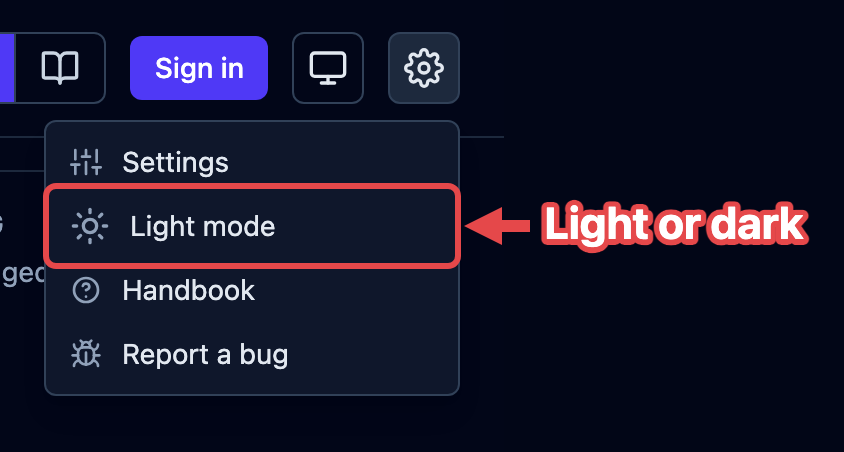
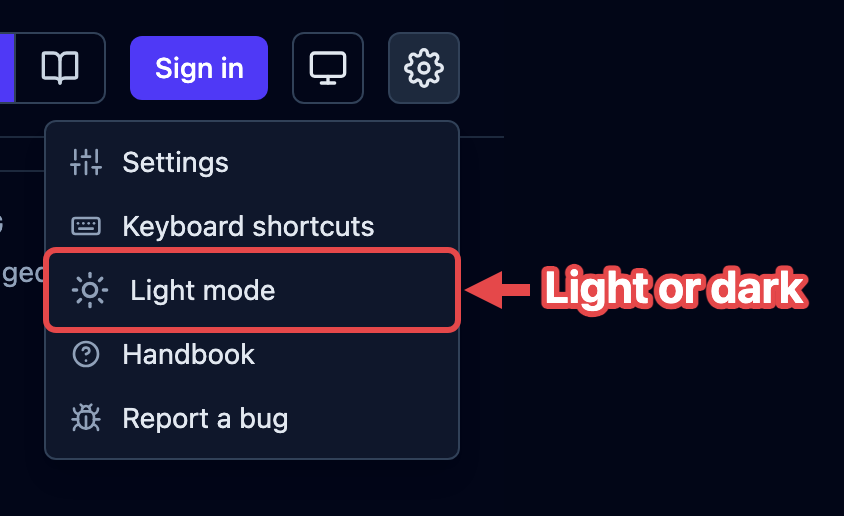
Docs: document the keyboard shortcuts
The console gained keyboard control in 1.1.0 and nothing in the handbook said
so. A new reference page lists all 26 commands with the keys they answer to,
grouped the way the app groups them, and covers the rules a reader meets first:
when the keyboard stands down, and which keys can never carry a command.

Rebinding goes on the Settings page, beside the tabs it sits between in the app,
since that is where every other Settings tab is already documented.

The tab strip gained a fourth entry and the gear menu a new row, so the four
captures showing either were re-shot. Three of them drifted under shotlist's
0.2% threshold and `--check` called them current, which is worth knowing the
next time a small control moves.

diff --git a/src/content/docs/reference/keyboard.md b/src/content/docs/reference/keyboard.md
@@ -1,0 +1,132 @@
+---
+title: Keyboard shortcuts
+description: Every keyboard command in the Dungeons and Dragons 5e combat console, the key it answers to, and when it works.
+keywords:
+  - DnD 5e combat tracker keyboard shortcuts
+  - OpenFray hotkeys
+  - initiative tracker keyboard controls
+  - 5e encounter shortcuts
+---
+
+Most of what you do in a fight has a key. You can step the turn, walk the tracker,
+damage whoever is selected, and open any of the panels without reaching for the mouse.
+This page lists every command and the key it starts with. You can change any of them,
+which is covered in
+[Settings & appearance](/docs/reference/settings/#keyboard).
+
+## See them in the app
+
+Press `Shift+/` to open the cheat sheet, or click the **gear** at the top right and
+choose **Keyboard shortcuts**. It lists every command with the key it currently answers
+to, grouped the way this page groups them. Press `Escape` to close it.
+
+![The Keyboard shortcuts cheat sheet, listing every command with its key, grouped into five sections.](../../../assets/screens/keyboard-help.png)
+
+The buttons themselves carry their key too. Hover one and its tooltip names the chord,
+so you can pick the shortcuts up as you go.
+
+## Turn and fight
+
+These run the fight itself. All but **Start combat** need a fight already under way.
+
+| Command         | Key       |
+| --------------- | --------- |
+| Next turn       | `N`       |
+| Previous turn   | `Shift+N` |
+| Start combat    | `B`       |
+| End the fight   | `Shift+B` |
+| Pause or resume | `P`       |
+
+**Next turn** does everything the button does, so recharge rolls and effects that end on
+a turn still happen.
+
+## Selection
+
+These move the highlight down and up the tracker, in the order you see it. Hold the key
+to keep moving. The selection wraps around at either end.
+
+| Command                      | Key |
+| ---------------------------- | --- |
+| Select next in the order     | `J` |
+| Select previous in the order | `K` |
+
+During a fight the order runs through the living in initiative order, with the dead
+grouped below. Before a fight it runs through players and allies first, then creatures.
+
+## The selected creature
+
+These act on the creature the console is showing: the one you clicked, or whoever's turn
+it is if you haven't clicked anyone.
+
+| Command                            | Key       |
+| ---------------------------------- | --------- |
+| Damage or heal the selected        | `D`       |
+| Apply an effect to the selected    | `E`       |
+| Concentrate                        | `Shift+C` |
+| Toggle reaction                    | `R`       |
+| Hide from players / Show           | `H`       |
+| Make ally / Make foe               | `F`       |
+| Remove the selected from the board | `Del`     |
+
+`D` puts the cursor straight in the hit points box, so you can type the damage and press
+`Enter`. See [Resolve an attack](/docs/guides/attacks/).
+
+## Add and open
+
+These open a panel or a picker on the fight screen.
+
+| Command           | Key       |
+| ----------------- | --------- |
+| Add creature      | `A`       |
+| Add PC            | `Shift+A` |
+| Quick add         | `Ctrl+A`  |
+| Cast spell        | `C`       |
+| Group save        | `G`       |
+| Short rest        | `Shift+S` |
+| Long rest         | `Shift+L` |
+| Open the game log | `L`       |
+
+**Short rest** and **Long rest** work only before a fight starts. **Cast spell** and
+**Group save** need at least one creature on the board.
+
+## Everywhere
+
+These work on any screen.
+
+| Command                                 | Key       |
+| --------------------------------------- | --------- |
+| Show the compendium / Back to the fight | `M`       |
+| Focus the dice bar                      | `/`       |
+| Settings                                | `,`       |
+| Keyboard shortcuts                      | `Shift+/` |
+
+## When a shortcut does nothing
+
+The keyboard steps out of the way whenever a key belongs to something else:
+
+- **While you're typing.** Every key is yours inside a text box, a number box, or a
+  dropdown. Click away, or press `Escape`, to get the shortcuts back.
+- **While a dialog or a menu is open.** The panel in front owns the keyboard until you
+  close it.
+- **When the command can't run.** A shortcut whose command isn't available right now
+  does nothing at all, with no warning. Pressing `B` mid-fight is an example: the fight
+  has already started.
+
+`Enter` is the exception that works the other way round. Inside a fight dialog, it runs
+that dialog's main button, so you can type a number and commit without reaching for
+**Apply** or **Save**.
+
+## Keys OpenFray won't take
+
+Four keys can never carry a command, because the browser and the screen reader already
+use them: `Enter`, `Space`, `Tab`, and `Escape`.
+
+Anything held with `Cmd` (or `Alt`) goes straight to your browser and the operating
+system, so those combinations are never bindable. The browser's own `Ctrl` chords are
+off limits too, among them `Ctrl+C`, `Ctrl+V`, `Ctrl+S`, `Ctrl+F`, `Ctrl+P`, and
+`Ctrl+R`. `Ctrl+A` is the one exception: **Quick add** holds it, and select-all still
+works inside every text box, because the keyboard stands down while you type.
+
+Any of these keys can be swapped for one you'd rather use, on the **Keyboard** tab in
+Settings. The steps are in
+[Settings & appearance](/docs/reference/settings/#keyboard).

diff --git a/src/content/docs/reference/settings.md b/src/content/docs/reference/settings.md
@@ -9,14 +9,14 @@ keywords:
 ---
 
 Some things live outside the fight: which **libraries** you play with, how much your
-players see on the screen you share with them, and whether the app is light or dark.
-They're set once and remembered in your browser, with no account needed. Click the
-**gear** at the top right and choose **Settings**. The same menu holds the light and
-dark switch, a link to this handbook, and **Report a bug**, which opens a new issue on
-GitHub.
+players see on the screen you share with them, which keys run which commands, and
+whether the app is light or dark. They're set once and remembered in your browser, with
+no account needed. Click the **gear** at the top right and choose **Settings**. The same
+menu holds the light and dark switch, the keyboard cheat sheet, a link to this handbook,
+and **Report a bug**, which opens a new issue on GitHub.
 
-Settings opens on three tabs (**Libraries**, **Player view**, and **Importer**) and
-starts on Libraries.
+Settings opens on four tabs (**Libraries**, **Player view**, **Keyboard**, and
+**Importer**) and starts on Libraries.
 
 ## Libraries
 
@@ -73,13 +73,41 @@ its controls beside the stat block.
 Sharing itself is the **screen** button in the top bar. See
 [Share the player view](/docs/guides/player-view/), which explains each choice.
 
+## Keyboard
+
+Nearly every command in the console has a key, and the **Keyboard** tab is where you
+change which one. It lists all 26 commands in the same five groups the cheat sheet uses,
+each with the key it currently answers to. For the full list of what the keys do, see
+[Keyboard shortcuts](/docs/reference/keyboard/).
+
+![The Keyboard tab in Settings, selected in the tab strip, above the Turn and fight rows with their keys, Change and Clear buttons.](../../../assets/screens/keyboard-settings.png)
+
+To give a command a different key:
+
+1. Click **Change** on its row. The button reads **Press a key…** while it waits.
+2. Press the key you want. Hold **Shift** or **Ctrl** with it for a longer chord.
+3. Check the row. The new key shows beside the command straight away.
+
+A key that's already taken is refused, and a line under the row names the command
+holding it. Keys the browser needs for itself are refused the same way. Press `Escape`
+to back out without changing anything.
+
+**Clear** takes a command's key away, leaving it **Not set**. The command still works
+from its button. **Restore defaults**, at the bottom of the tab, puts every key back at
+once and asks you to confirm first.
+
+:::note[Saved on this device]
+Your keys are remembered in this browser, like the light and dark choice. They don't
+travel with your account, so another computer starts from the defaults.
+:::
+
 ## Light or dark
 
 Click the **gear** at the top right, then **Light mode** or **Dark mode**. The row names
 the one you'd switch to. OpenFray opens dark by default. Your choice is remembered in
 your browser, and it's shared with the OpenFray website, so both match.
 
-![The gear menu open in the top bar, showing Settings, Light mode, Handbook, and Report a bug.](../../../assets/screens/theme-toggle.png)
+![The gear menu open in the top bar, showing Settings, Keyboard shortcuts, Light mode, Handbook, and Report a bug.](../../../assets/screens/theme-toggle.png)
 
 ## The importer
 
